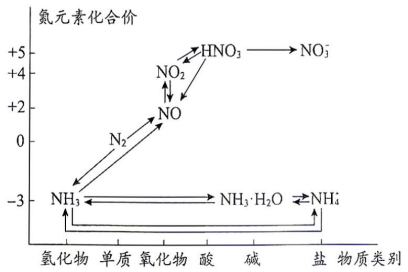
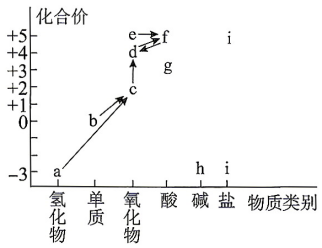
style: 学科卡片样式修改，使其更像一本书

Changed region(s): [[0.0, 0.0282, 0.9938, 0.9879]]

diff --git a/tutor-nest-vue/src/views/HomeView.vue b/tutor-nest-vue/src/views/HomeView.vue
@@ -246,8 +246,6 @@ defineExpose({
 </script>
 
 <style scoped>
-/* 所有样式从 style.css 迁移，添加 scoped */
-
 * {
   margin: 0;
   padding: 0;
@@ -372,50 +370,59 @@ defineExpose({
   padding: 4px 8px;
 }
 
-/* 书本卡片样式 */
+/* ========== 书本卡片样式（5页堆叠） ========== */
 .subject-card {
+  position: relative;
   flex: 0 0 auto;
   width: 200px;
   padding: 30px 20px 28px;
   border-radius: 4px 16px 16px 4px;
-  background: rgba(255, 255, 255, 0.5);
+  background: #ffffff;
+  /* 改为不透明白色，内页才能清晰显示 */
   backdrop-filter: blur(8px);
-  box-shadow:
-    8px 8px 24px rgba(80, 130, 120, 0.06),
-    -2px 0 0 0 rgba(91, 168, 164, 0.2) inset;
   border: 1px solid rgba(255, 255, 255, 0.2);
-  border-left: 4px solid var(--teal-dark, #5BA8A4);
+  border-left: 8px solid var(--teal-dark, #5BA8A4);
   cursor: pointer;
   text-align: center;
-  position: relative;
   transform: perspective(800px) rotateY(-2deg) rotateX(2deg);
   transform-origin: left center;
   transition: all 0.35s cubic-bezier(0.2, 0.9, 0.4, 1);
   text-decoration: none;
   color: inherit;
   display: block;
+
+  /* 多层阴影模拟5页堆叠（卡片本身是第1页，后面4层阴影代表第2~5页） */
+  box-shadow:
+    /* 原有的轻柔环境阴影（可保留） */
+    8px 8px 24px rgba(80, 130, 120, 0.06),
+    /* 左侧内阴影模拟书脊 */
+    -2px 0 0 0 rgba(91, 168, 164, 0.2) inset,
+    /* 书页堆叠（向右下方向偏移） */
+    2px 2px 0 0 #f9f9f9,
+    4px 4px 0 0 #f0f0f0,
+    6px 6px 0 0 #e5e5e5,
+    8px 8px 0 0 #dbdbdb;
 }
 
+/* 移除原有的右侧渐变伪元素，不再需要 */
 .subject-card::after {
-  content: '';
-  position: absolute;
-  top: 0;
-  right: 0;
-  width: 30px;
-  height: 100%;
-  background: linear-gradient(to left, rgba(255, 255, 255, 0.3), transparent);
-  pointer-events: none;
-  border-radius: 0 16px 16px 0;
+  display: none;
 }
 
 .subject-card:hover {
   transform: perspective(800px) rotateY(-6deg) rotateX(4deg) translateY(-6px);
   box-shadow:
     12px 16px 40px rgba(80, 130, 120, 0.12),
-    -2px 0 0 0 rgba(91, 168, 164, 0.3) inset;
-  background: rgba(255, 255, 255, 0.7);
+    -2px 0 0 0 rgba(91, 168, 164, 0.3) inset,
+    /* hover 时书页偏移稍微加大，增加立体厚度 */
+    2px 2px 0 0 #f9f9f9,
+    5px 5px 0 0 #f0f0f0,
+    8px 8px 0 0 #e5e5e5,
+    11px 11px 0 0 #dbdbdb;
+  background: #ffffff;
 }
 
+/* 图标、文字等样式保持不变 */
 .subject-card .card-icon {
   font-size: 2.6rem;
   margin-bottom: 10px;
